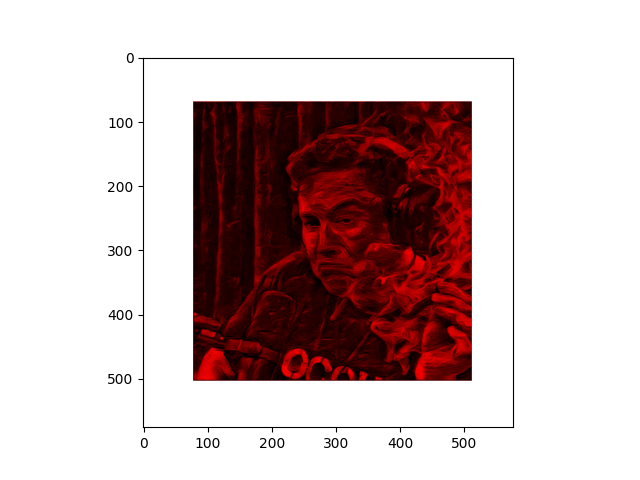
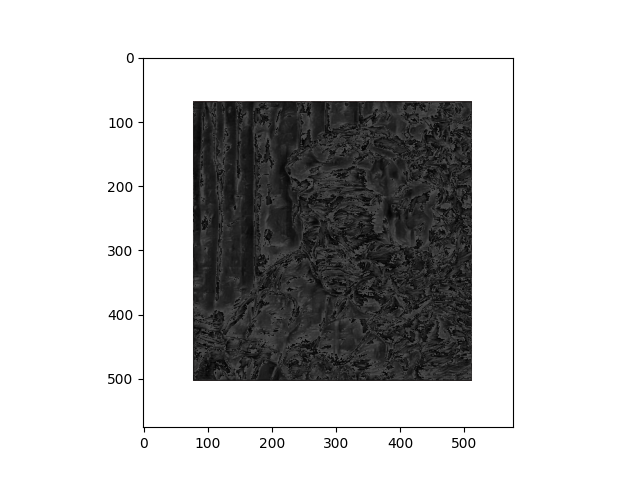
[python : module 03 : ex04 & ex05] In ex04 worked with numpy 3D image array to apply several filters, In ex05 working on implementing Kmeans algorithm

Changed region(s): [[0.2812, 0.1875, 0.75, 0.8125]]

diff --git a/Module 03/ex03/ColorFilter.py b/Module 03/ex03/ColorFilter.py
@@ -27,6 +27,7 @@ class ColorFilter:
         ◦ Authorized functions: .sum,.shape,.reshape,.broadcast_to,.as_type.
         ◦ Authorized operators: *,/, =.
     """
+
     def invert(self, array):
         """
         Inverts the color of the image received as a numpy array.
@@ -48,28 +49,30 @@ class ColorFilter:
             [[10, 11, 12], [13, 14, 15], [16, 17, 18]],
             [[19, 20, 21], [22, 23, 24], [25, 26, 27]]
         ])
-        
+
         # select the first row
         print(arr[0, :, :])  # outputs: [[1 2 3], [4 5 6], [7 8 9]]
-        
+
         # select the second column
         print(arr[:, 1, :])  # outputs: [[4 5 6], [13 14 15], [22 23 24]]
-        
+
         # select the first two color channels (R, G)
         img = np.array([
             [[255, 128, 0, 255], [0, 255, 128, 255], [128, 0, 255, 255]],
             [[255, 255, 0, 128], [255, 0, 255, 128], [0, 255, 255, 128]],
             [[128, 128, 128, 0], [64, 64, 64, 0], [0, 0, 0, 0]]
         ], dtype=np.uint8)
-        
+
         print(img[:, :, :2])
         # outputs: [[[255 128], [0 255], [128 0]], [[255 255], [255 0], [0 255]], [[128 128], [64 64], [0 0]]]
         """
+        if array.shape == (0, 0, 0):
+            return None
         result = np.copy(array)
         new_array = 255 - result[:, :, :3]
         result[:, :, :3] = new_array
         return result
-    
+
     def to_blue(self, array):
         """
         Applies a blue filter to the image received as a numpy array.
@@ -84,10 +87,12 @@ class ColorFilter:
         -------
         This function should not raise any Exception.
         """
+        if array.shape == (0, 0, 0):
+            return None
         result = np.zeros(np.shape(array), dtype=np.uint8)
         result[:, :, 2] = array[:, :, 2]
         result[:, :, 3] = array[:, :, 3]
-        return (result)
+        return result
 
     def to_green(self, array):
         """
@@ -103,10 +108,13 @@ class ColorFilter:
         -------
         This function should not raise any Exception.
         """
+        if array.shape == (0, 0, 0):
+            return None
         result = np.copy(array)
         result[:, :, 0] -= array[:, :, 0]
         result[:, :, 2] -= array[:, :, 2]
-        return (result)
+        return result
+
     def to_red(self, array):
         """
         Applies a red filter to the image received as a numpy array.
@@ -121,9 +129,13 @@ class ColorFilter:
         -------
         This function should not raise any Exception.
         """
+        if array.shape == (0, 0, 0):
+            return None
         result = np.copy(array)
-        result[:, :, :3] -= self.to_green(array)[:, :, :3] + self.to_blue(array)[:, :, :3]
-        return (result)
+        result[:, :, :3] -= self.to_green(array)[:,
+                                                 :, :3] + self.to_blue(array)[:, :, :3]
+        return result
+
     def to_celluloid(self, array):
         """
         Applies a celluloid filter to the image received as a numpy array.
@@ -142,9 +154,17 @@ class ColorFilter:
         Raises:
         -------
         This function should not raise any Exception.
+        https://chat.openai.com/c/d8465cf3-2b7b-403b-9d3a-3ff9b9002f3e
         """
-        
-    
+        if array.shape == (0, 0, 0):
+            return None
+        filter_array = np.linspace(55, 255, 4)
+        new_array = np.copy(array)
+        for i in range(3):
+            for elem in filter_array:
+                new_array[..., i][array[..., i] > elem] = elem
+        return new_array
+
     def to_grayscale(self, array, filter, **kwargs):
         """
         Applies a grayscale filter to the image received as a numpy array.
@@ -164,4 +184,17 @@ class ColorFilter:
         -------
         This function should not raise any Exception.
         """
-    
+        if array.shape == (0, 0, 0):
+            return None
+        if filter == "m" or filter == "mean":
+            new_arr = ( (array[..., 0] + array[..., 1] + array[..., 2]) / 3 ).astype(int)
+            for i in range(3):
+                array[..., i] = new_arr[...]
+            return array
+        elif filter == "w" or filter == "weight":
+            weights = kwargs['weights']
+            new_arr = (array[..., 0] * weights[0] + array[..., 1]
+                       * weights[1] + array[..., 2] * weights[2]).astype(int)
+            for i in range(3):
+                array[..., i] = new_arr[...]
+            return array

diff --git a/Module 03/ex04/Kmeans.py b/Module 03/ex04/Kmeans.py
@@ -1,0 +1,68 @@
+"""Implementation of a basic Kmeans algorithm
+    """
+
+
+class KmeansClustering:
+    """Kmeans class
+    """
+
+    def __init__(self, max_iter=20, ncentroid=5):
+        """ Class initializer
+
+        Args:
+            max_iter (int, optional): number of max iterations to update the centroids
+            ncentroid (int, optional):  number of centroids
+        """
+        self.ncentroid = ncentroid  # number of centroids
+        self.max_iter = max_iter  # number of max iterations to update the centroids
+        self.centroids = []  # values of the centroids
+
+    def fit(self, X):
+        """
+        Run the K-means clustering algorithm.
+        For the location of the initial centroids, random pick ncentroids from the dataset.
+        Args:
+        -----
+        X: has to be an numpy.ndarray, a matrice of dimension m * n.
+        Return:
+        -------
+        None.
+        Raises:
+        -------
+        This function should not raise any Exception.
+        """
+        self.centroids = np.random.choice(np.arange(X.shape[0]), self.ncentroid, replace=False)
+        print(self.centroids)
+        
+
+    def predict(self, X):
+        """
+        Predict from wich cluster each datapoint belongs to.
+        Args:
+        -----
+        X: has to be an numpy.ndarray, a matrice of dimension m * n.
+        Return:
+        -------
+        the prediction has a numpy.ndarray, a vector of dimension m * 1.
+        Raises:
+        -------
+        This function should not raise any Exception.
+        """
+
+
+if __name__ == "__main__":
+    import argparse
+    import numpy as np
+    print("Usage: python Kmeans.py '../ressources/solar_system_census.csv' 4 30")
+    parser = argparse.ArgumentParser(description='Perform K-means clustering on data.')
+    parser.add_argument('filepath', type=str, help='Path to the CSV file containing the data')
+    parser.add_argument('ncentroid', type=int, help='Number of clusters to find')
+    parser.add_argument('max_iter', type=int, help='Maximum number of iterations to perform')
+    args = parser.parse_args()
+    data = np.genfromtxt(args.filepath, delimiter=',', skip_header=True)
+    data = data[..., 1:]
+    kmeanObject = KmeansClustering(30, 5)
+    print(data[:100])
+    kmeanObject.fit(data[:100])
+    # kmeanObject.predict(data[101:])
+    # print(data)

diff --git a/Module 03/ex03/test.py b/Module 03/ex03/test.py
@@ -19,6 +19,7 @@ cf = ColorFilter()
 imp.display(cf.to_red(arr))
 # print(cf.to_blue(img))
 # imp.display(cf.to_blue(arr))
-# cf.to_celluloid(arr)
-# cf.to_grayscale(arr, 'm')
-# cf.to_grayscale(arr, 'weight', weights = [0.2, 0.3, 0.5])
+# print(cf.to_celluloid(img))
+# imp.display(cf.to_celluloid(arr))
+imp.display(cf.to_grayscale(arr, 'm'))
+imp.display(cf.to_grayscale(arr, 'weight', weights = [0.2, 0.3, 0.5]))
